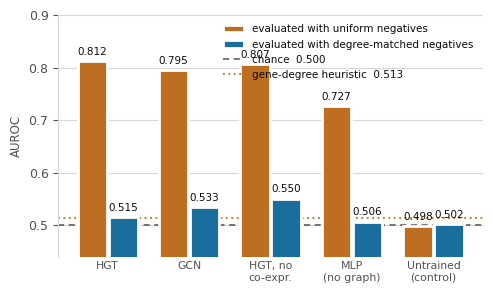
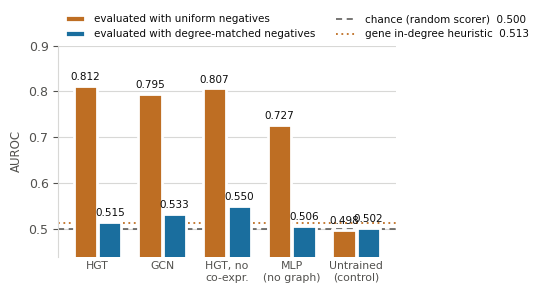
Tighten 4.4 and 4.5, drop the duplicate headline-grid table, fix Figure 6 legend, log the Table 9 check
- Replace Table 11 (headline grid) with Figure 5, which already shows the same 2x2; repoint all references.
- Cut the architecture paragraph of 4.4 and move the single-run caveat to Appendix A.
- Shorten the Table 8 caption; tie the 2x2 grid and the four model-free heuristics to the figure and Table 6 where 4.1 uses them.
- Figure 6: move the legend out of the plot (it overlapped a bar label), name the gene in-degree heuristic as in Table 6 and define chance in the caption.
- 4.5/E7: state the label-circularity risk, say the 32-point gap is against the better control, and drop "degree-matched" from the cell-typing table row.
- BITACORA: entry for the Table 9 verification against the artifacts and the OGB leaderboard.

Changed region(s): [[0.0, 0.0307, 0.9736, 0.9829]]

diff --git a/manuscript/jbi/main.tex b/manuscript/jbi/main.tex
@@ -485,7 +485,7 @@ protocols. The \emph{conventional} protocol holds nothing out: every edge of $E$
 the message-passing graph and is also a supervision and evaluation target (``edges
 seen''), and negatives are drawn uniformly at random. The \emph{corrected} protocol holds test edges out of the message-passing graph and
 draws degree-matched negatives. The data, labels, model and metric are the same in both. Crossing the two choices gives a $2\times2$ grid of edge
-split by negative sampler, which lets us attribute the inflation to each failure
+split by negative sampler (Figure~\ref{fig:protocol_grid} gives the four cells for our model), which lets us attribute the inflation to each failure
 separately (\S\ref{sec:mechanism}). Table~\ref{tab:protocol_arms} gives the
 difference between the two arms.
 
@@ -520,7 +520,7 @@ $u$, and the fraction of fallbacks is logged. Within any single reported number 
 sampler is used at training and at evaluation; mixing the two produces the ``mismatch
 trap'', an apparent difficulty measurement that is in fact an artifact of the distribution
 mismatch (Figure~\ref{fig:neg_sampling_mechanism}). In the headline grid
-(Table~\ref{tab:headline_grid}), the edges-seen row reports the uniform-negative-trained model
+(Figure~\ref{fig:protocol_grid}), the edges-seen row reports the uniform-negative-trained model
 under both evaluation regimes, and the edges-held-out row each model scored with the negative
 type it was trained on. The third requirement of the standard we
 propose concerns reporting rather than the protocol itself: a model-free baseline, whose
@@ -547,8 +547,8 @@ measured rather than assumed; our own graph (\S\ref{sec:data}) is one case among
 the case they are built around. Together they cover ten cases (our graph, seven surveyed
 papers and two OGB benchmarks) on eight distinct graphs, because three of the papers
 share one matrix. E5 asks what separates the graphs, and E6 and E7 use the one graph whose
-construction and training we control to ask why the inflation arises and whether the audit
-deflates a task that is not leaky.
+construction and training we control: E6 asks why the inflation arises, and E7 asks whether the
+audit also deflates a different task on that graph, cell typing, which is not link prediction.
 
 \input{tables/table_experiments.tex}
 
@@ -603,7 +603,8 @@ numbers (Discussion).
 
 \input{tables/table7_discrimination.tex}
 
-Running the same grid with the four unmodified heuristics instead of a trained model
+Running the same $2\times2$ grid (Figure~\ref{fig:protocol_grid}) with the four model-free
+heuristics (Table~\ref{tab:heuristics}) instead of a trained model
 (Table~\ref{tab:protocol_grid}, in \S\ref{sec:dead_columns}) shows the inflation is not something only a trained model
 produces. Within a row only the adjacency the heuristics may see changes, so the inflation
 is attributable to the protocol alone: $+0.316$ to $+0.426$ across the six graphs, with our
@@ -670,7 +671,7 @@ from a graph that shares none of its data.
 \label{sec:mechanism}
 The two corrections are not redundant. From the conventional 0.9867, matched negatives alone
 lower AUROC by 0.062 and held-out edges alone by 0.177, a sum of 0.239, while together they
-lower it by 0.359 (Figure~\ref{fig:protocol_grid}, Table~\ref{tab:headline_grid}): the pair
+lower it by 0.359 (Figure~\ref{fig:protocol_grid}): the pair
 is super-additive. How the total divides depends on which is applied first (the negatives
 lower it by 0.062 with edges seen but 0.182 with edges held out), so we report the total
 rather than a decomposition.
@@ -681,19 +682,14 @@ rather than a decomposition.
 \label{fig:protocol_grid}
 \end{figure}
 
-\input{tables/table1_headline_grid.tex}
-
-Under the conventional protocol the trained model learns gene popularity. A heuristic that
-never looks at the miRNA, gene in-degree, reaches 0.8712 and outperforms the trained model
-(0.8056; Table~\ref{tab:model_free_baselines}). A model trained with uniform negatives and
-scored against degree-matched ones falls to AUROC $0.5352 \pm 0.0202$, indistinguishable from
-the in-degree floor, so uniform-negative training teaches popularity rather than
-miRNA-specific target information. The same fall occurs in every trained architecture in the
-grid (Figure~\ref{fig:negative_sampler_collapse}).
+A model trained with uniform negatives and scored against degree-matched ones falls to AUROC
+$0.5352 \pm 0.0202$, indistinguishable from the in-degree floor (Table~\ref{tab:model_free_baselines}), so
+uniform-negative training teaches popularity rather than miRNA-specific target information. The same
+fall occurs in every trained architecture in the grid (Figure~\ref{fig:negative_sampler_collapse}).
 
 \begin{figure}[h!]
 \includegraphics[width=\textwidth]{../../results/figures/manuscript/fig3_negative_sampler_collapse.pdf}
-\caption{Every architecture trained with uniform negatives and scored under both negative regimes; the untrained control does not move.}
+\caption{Every architecture trained with uniform negatives and scored under both negative regimes; the untrained control does not move. The dashed line is chance, the AUROC of a random scorer (0.5); the dotted line is the gene in-degree heuristic (Table~\ref{tab:heuristics}) under degree-matched negatives.}
 \label{fig:negative_sampler_collapse}
 \end{figure}
 
@@ -702,15 +698,9 @@ grid (Figure~\ref{fig:negative_sampler_collapse}).
 Nor is the inflation specific to one model. Four trained models (the transformer, a
 homogeneous GCN, a co-expression ablation and a graph-free MLP) inflate by 0.24--0.31 AUROC
 between the two protocols, the MLP included, while an untrained random-weight control does
-not move ($-0.004$; Figure~\ref{fig:architecture_inflation}, Appendix~\ref{app:grid}). Each
-is a single run on one GPU, so the seed spread reported elsewhere (0.005--0.02), measured on
-the four-GPU headline model, is only an indicative scale for these rows. The inflation is an
-order of magnitude larger, with the same sign and similar size in all four models, which is
-not what noise in a single run would produce. These levels are comparable with one another
-but not with Table~\ref{tab:headline_grid}: the grid's transformer reaches 0.9222 under the
-conventional protocol against 0.9867 for the four-GPU run of the same configuration
-(Appendix~\ref{app:grid}). The GCN (0.6236) and the transformer (0.6080) differ by 0.016
-under the corrected protocol, within that scale, so we do not read it as an ordering.
+not move ($-0.004$; Figure~\ref{fig:architecture_inflation}). Each is a single run on one GPU,
+so the levels are comparable with one another but not with Figure~\ref{fig:protocol_grid}
+(Appendix~\ref{app:grid}).
 
 \begin{figure}[h!]
 \includegraphics[width=\textwidth]{../../results/figures/manuscript/fig2_architecture_inflation.pdf}
@@ -720,13 +710,15 @@ under the corrected protocol, within that scale, so we do not read it as an orde
 
 \subsection{Cell-type classification control (E7)}
 \label{sec:celltype}
-The audit does not deflate every number it touches. Applying the same
-model-free-comparator logic to a structurally different task on the same graph (cell-type classification, 0.9916 test accuracy, carrying a circularity risk analogous to
-the miRNA-target task's own dependence on miRDB), two graph-free controls on the raw PCA
-features alone, nearest-centroid and logistic regression, reach 0.4654 and 0.6692
-(Table~\ref{tab:celltype_control}). That 32-point gap is an order of magnitude larger
-than the 3.6 points the corrected link-prediction protocol leaves between the trained
-model and its topological floor. Here the graph and message passing are doing
+The audit does not deflate every number it touches. This control moves from link prediction to a
+different task on the same graph: classifying the cell type of each cell (node classification). The
+label of a cell is the highest marker-gene score computed from its expression, and the only cell
+feature the model sees is a PCA of that same expression, so the 0.9916 test accuracy could
+be the model recomputing its own label. Two graph-free controls on the PCA features alone, with no
+graph and no message passing, test this: nearest-centroid reaches 0.4654 and logistic regression
+0.6692 (Table~\ref{tab:celltype_control}). The trained model's gap to the better control, 32 points,
+is an order of magnitude larger than the 3.6 points the corrected link-prediction protocol leaves
+between the trained model and its topological floor. Here the graph and message passing do
 substantial work, and the same methodology leaves the number intact: the audit is
 discriminating rather than indiscriminate.
 
@@ -760,7 +752,7 @@ prediction without a matching re-derivation of when it is and is not valid.
 
 What we have not found named in the literature is the interaction between the two: every
 prior treatment we are aware of studies transductive edge leakage or popularity-biased negative
-sampling in isolation. Table~\ref{tab:headline_grid} and Figure~\ref{fig:protocol_grid} show they are
+sampling in isolation. Figure~\ref{fig:protocol_grid} shows they are
 super-additive on this graph: correcting either alone leaves the number substantially
 inflated, and the cross-architecture grid (Table~\ref{tab:architecture_grid},
 Figure~\ref{fig:architecture_inflation}) shows the same compounding recurs across four
@@ -936,6 +928,10 @@ conventional cell is a difference of training regime, not of protocol or measure
 runs were scored on the same split and the same 44,186 edges, and the headline checkpoint
 moves by 0.00004 AUROC between the validation and test splits. The no-miRNA-input ablation
 has no link-prediction head and is retained only as a smoke test.
+Each row is a single run, so the seed spread measured on the four-GPU headline model
+(0.005--0.02) is only an indicative scale: the inflation is an order of magnitude larger, but the
+0.016 between the GCN (0.6236) and the transformer (0.6080) under the corrected protocol is within
+it and is not read as an ordering.
 
 \input{tables/tableS1_architecture_grid.tex}
 

diff --git a/manuscript/jbi/tables/table_experiments.tex b/manuscript/jbi/tables/table_experiments.tex
@@ -14,7 +14,7 @@ E3 & How far above a model-free floor are published numbers? & The five external
 E4 & Does the floor behave the same outside this literature? & ogbl-ddi, ogbl-ppa & The same heuristics after a runtime leak-free check, read against the public leaderboards & \S\ref{sec:generalization} \\
 E5 & Why is the floor high on some graphs? & The five external matrices (thinning); the canonical HMDD matrix (padding) & Positives thinned from 100\% to 10\% (five seeds per point); empty candidate columns added; model-free floor measured & \S\ref{sec:dead_columns} \\
 E6 & Does the inflation follow the protocol or the model? & Our graph (CZ CELLxGENE Census scRNA-seq with miRDB v6.0) & The transformer over the full grid (four seeds); four trained models and an untrained control over the grid (one run each) & \S\ref{sec:mechanism} \\
-E7 & Does the audit deflate a task that is not leaky? & Our graph, cell-type labels of its cells & The trained model against two graph-free controls & \S\ref{sec:celltype} \\
+E7 & Does the audit also deflate cell typing, a task that is not link prediction? & Our graph, cell-type labels of its cells & The trained model against two graph-free controls (PCA features only, no graph) & \S\ref{sec:celltype} \\
 \hline
 \end{tabular}}
 \end{table}

diff --git a/analysis/make_manuscript_figures.py b/analysis/make_manuscript_figures.py
@@ -269,12 +269,12 @@ def fig3_negative_sampler_collapse(same_model, topo, out: Path) -> None:
     _despine(ax, keep=("left",))
     ax.tick_params(axis="x", length=0)
     handles = list(ax.get_legend_handles_labels()[0]) + [
-        Line2D([], [], color=INK2, lw=1.1, ls=(0, (4, 3)), label="chance  0.500"),
+        Line2D([], [], color=INK2, lw=1.1, ls=(0, (4, 3)), label="chance (random scorer)  0.500"),
         Line2D([], [], color=ORANGE, lw=1.3, ls=(0, (1, 2)),
-               label=f"gene-degree heuristic  {gd:.3f}"),
+               label=f"gene in-degree heuristic  {gd:.3f}"),
     ]
-    ax.legend(handles=handles, loc="upper right", frameon=False, fontsize=7.5,
-              labelcolor=INK, ncol=1)
+    ax.legend(handles=handles, loc="lower left", bbox_to_anchor=(0.0, 1.0), frameon=False,
+              fontsize=7.5, labelcolor=INK, ncol=2, borderaxespad=0.2)
     fig.tight_layout()
     fig.savefig(out, bbox_inches="tight")
     plt.close(fig)

diff --git a/manuscript/jbi/tables/table4_celltype_control.tex b/manuscript/jbi/tables/table4_celltype_control.tex
@@ -1,5 +1,5 @@
 \begin{table}[h!]
-\caption{Cell-type classification: graph-free controls (nearest-centroid, logistic regression, both on \texttt{X\_pca} alone, no message passing) vs.\ the trained HGT, same split/config/seed, test set. Source: configs/config\_v2\_edgesplit.yaml, n=11079 held-out cells.}
+\caption{Cell-type classification: graph-free controls (nearest-centroid, logistic regression, both on \texttt{X\_pca} alone, no message passing) vs.\ the trained HGT with the graph, same split/config/seed, test set. Source: configs/config\_v2\_edgesplit.yaml, n=11079 held-out cells.}
 \label{tab:celltype_control}
 \small
 \begin{tabular}{lcc}
@@ -8,7 +8,7 @@ Classifier & Accuracy & Macro-F1 \\
 \hline
 Nearest-centroid (graph-free) & 0.4654 & 0.4612 \\
 Logistic regression (graph-free) & 0.6692 & 0.5737 \\
-HGT (reference, degree-matched) & 0.9916 & -- \\
+HGT (trained, with graph) & 0.9916 & -- \\
 \hline
 \end{tabular}
 \end{table}

diff --git a/manuscript/jbi/tables/table_results_summary.tex b/manuscript/jbi/tables/table_results_summary.tex
@@ -14,7 +14,7 @@ E3 & Trained models beat the model-free floor by 4.7 points per paper, from $-9.
 E4 & The heuristics reproduce the leaderboards: 30th of 32 on ogbl-ddi, 14th of 27 on ogbl-ppa & \S\ref{sec:generalization} \\
 E5 & Empty candidate columns alone raise the floor from 0.859 to 0.982 & \S\ref{sec:dead_columns} \\
 E6 & On our graph the transformer falls from 0.9867 to 0.6276, and four trained models inflate by 0.24--0.31 while the untrained control does not move & \S\ref{sec:mechanism} \\
-E7 & Cell typing reaches 0.9916 against 0.4654 and 0.6692 for the graph-free controls, so the audit leaves it intact & \S\ref{sec:celltype} \\
+E7 & Cell typing reaches 0.9916 against 0.4654 and 0.6692 for the graph-free controls, a 32-point gap, so the audit leaves it intact & \S\ref{sec:celltype} \\
 \hline
 \end{tabular}}
 \end{table}

diff --git a/manuscript/jbi/tables/table7_discrimination.tex b/manuscript/jbi/tables/table7_discrimination.tex
@@ -1,5 +1,5 @@
 \begin{table}[h!]
-\caption{The inflation on every graph with a trained protocol grid, and the margin over the best model-free heuristic. ``Our architecture'' is this paper's model trained on each graph (mean over 4 seeds); ``conventional'' is edges seen with uniform negatives and ``corrected'' is edges held out with degree-matched negatives.}
+\caption{The inflation on every graph with a trained protocol grid (our architecture, mean of 4 seeds), and its margin over the best model-free heuristic. Conventional = edges seen, uniform negatives; corrected = edges held out, degree-matched negatives.}
 \label{tab:discrimination}
 \footnotesize
 \resizebox{\textwidth}{!}{%

diff --git a/BITACORA.md b/BITACORA.md
@@ -23,6 +23,41 @@ trabajo, no por commit.
 
 ---
 
+## 2026-10-12 — Verificación de la Tabla 9 contra los artefactos
+
+Sesión corta. No se tocó `main.tex`. Se contrastó la Tabla 9 (§4.2, E3/E4) con
+`results/comparison/*.json`, `PROTOCOLO_Y_CIFRAS_VIGENTES.md`, `literature_survey_d4_reaudit.tsv`
+y el leaderboard oficial de OGB (consultado hoy, 2026-10-12).
+
+**Coincide:**
+- Los siete model-free de los papers (`hmdd_survey_topology_baseline_*.json`): MGCNSS 0.9136,
+  NIMGSA y HLGNN-MDA 0.8680, DiGAMN 0.8714, CoupleMDA 0.9406, MEAHNE 0.9848, CKSNP-GNN 0.8822.
+- Nuestro grafo: 0.5912 (Adamic--Adar, pareado, `topology_baseline_v3fixed_test.json`) y 0.6276
+  (`PROTOCOLO_Y_CIFRAS_VIGENTES.md`).
+- Gaps y medias recalculados: por paper 0.9514 / 0.9041 / −0.0473; por grafo (promediando antes
+  las tres matrices HMDD) 0.9515 / 0.9124 / −0.0390.
+- OGB: 0.1861 (ddi) y 0.4933 (ppa) coinciden con nuestros JSON. Leaderboard: Adamic--Adar 30º de
+  32 en ddi (HyperFusion 0.9972 primero); Resource Allocation 14º de 27 en ppa, con BUDDY 13º en
+  0.4934.
+- Comparadores sin entrenar citados en §4.2: 0.8960 (NIMGSA), 0.85648 (HLGNN-MDA), 91.90
+  (CKSNP-GNN) en `literature_survey_d4_reaudit.tsv`; 0.8842 y 0.8924 salen de los JSON `_seen`.
+
+**Pendiente / a decidir:**
+1. `PROTOCOLO_Y_CIFRAS_VIGENTES.md:92` avisa que la misma arquitectura da 0.6080 en otro cuadro y
+   0.6276 en el vigente. Confirmar que la Tabla 9 usa el que corresponde (hoy usa 0.6276).
+2. El caption dice "test edges held out and uniform negatives" pero no que, salvo MGCNSS, la
+   partición del heurístico es una aproximación propia (90/10 o 80/20 aleatoria), no la del paper
+   (HLGNN-MDA es 10-fold en el paper). Los `caveat` de los JSON ya lo dicen. Se propuso añadir una
+   nota al caption; **no se hizo, falta decidir**.
+3. **Sigue sin verificar:** cómo se aplican los heurísticos a OGB (grafo no bipartito) y si el
+   sampler uniforme excluye aristas verdaderas.
+
+**Dónde nos quedamos:** igual que la entrada del 2026-10-10 → 11. Siguen pendientes los
+comentarios del autor sobre la Tabla 11 y el AUPRC, y luego 4.5, Discusión, Conclusión y la
+pasada final de Abstract/highlights.
+
+---
+
 ## 2026-10-10 → 11 — Pulido del manuscrito: secciones 2 a 4 revisadas, hasta 4.4
 
 Sesión larga sobre `manuscript/jbi/main.tex`. Commits `0cfe262`…`84e81a1` (más el de cierre de
